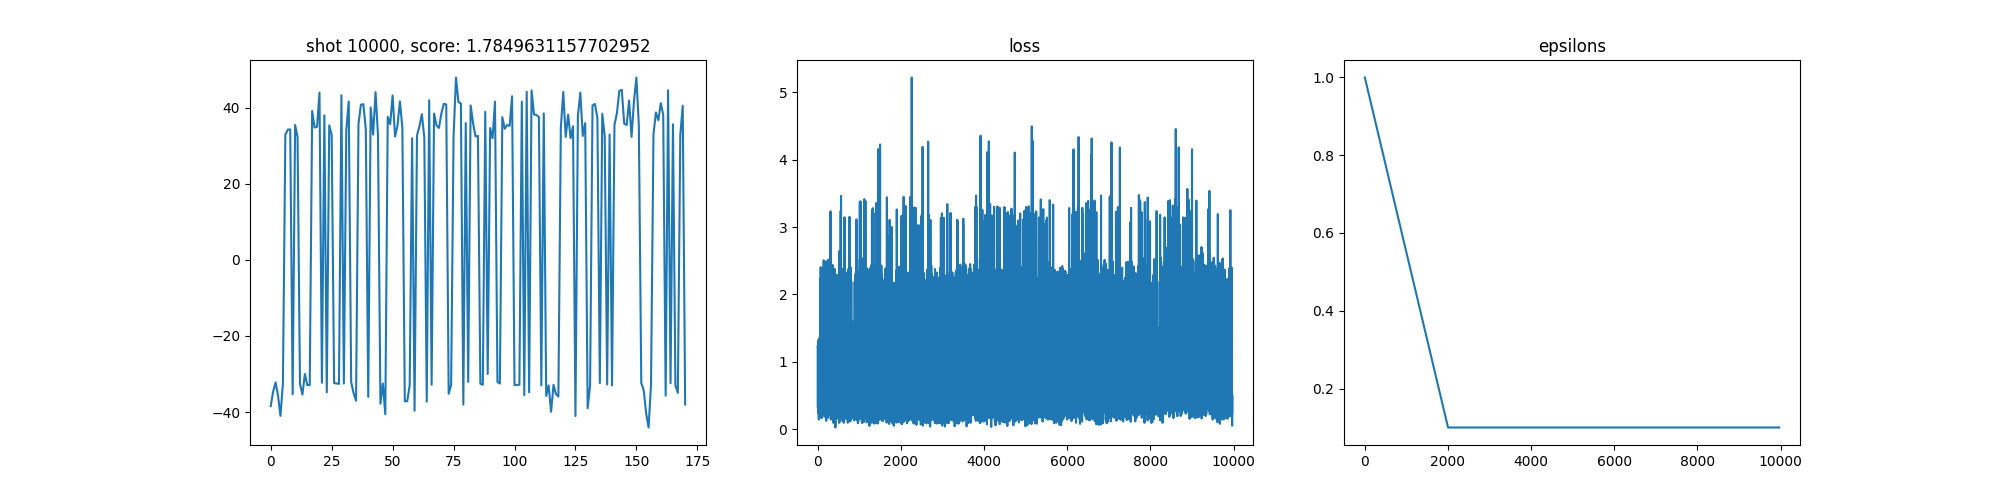
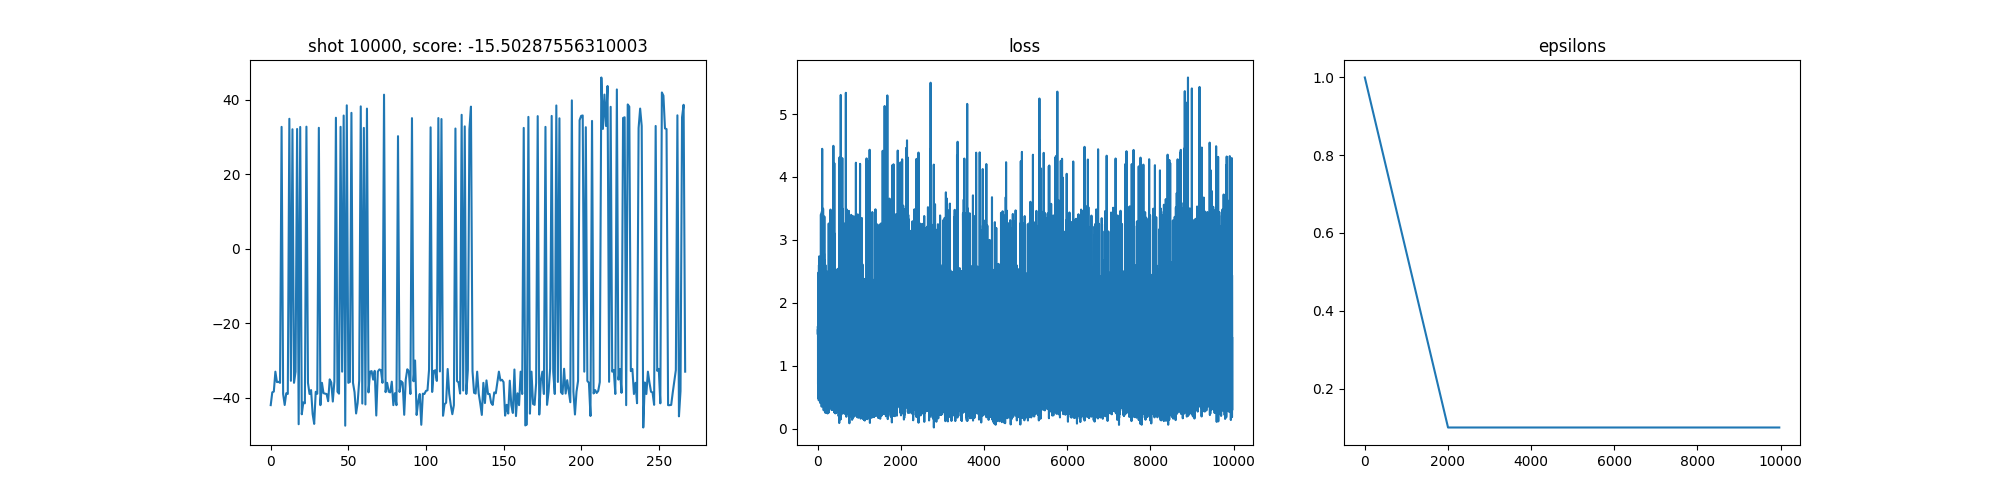
Refactor
Performance drop?

diff --git a/env.py b/env.py
@@ -1,10 +1,7 @@
 import torch
-import time
 import numpy as np
-from poke_env.player import Gen5EnvSinglePlayer, OpenAIGymEnv, Player
+from poke_env.player import Gen5EnvSinglePlayer, Player
 from poke_env.data import GenData
-
-import matplotlib.pyplot as plt
 
 import embeddings
 import rewards
@@ -12,56 +9,68 @@ import nets
 
 
 class RLAgent:
-    def __init__(self, device, env: OpenAIGymEnv):
-        self.device = device
-        self.env = env
+    """
+    Prototype Class for RLAgents
+    """
+    def __init__(self):
+        self.device = None
+        self.memory = None
 
         self.testing = False
     
-    def select_action(self, state):
+    def train(self):
+        pass
+    
+    def test(self):
         pass
 
-class AgentPlayer(Player):
-    def __init__(self, agent: RLAgent, **kwargs):
-        self.agent = agent
-        self.agent.testing = True
-
-        super(AgentPlayer, self).__init__(**kwargs)
+    def select_action(self, state) -> np.ndarray:
+        pass
     
-    def choose_move(self, battle):
-        embed = self.agent.env.embed_battle(battle)
-        action = self.agent.select_action(embed)
-        return self.agent.env.action_to_move(action, battle)
+    def replay_train(self) -> tuple[float, float]:
+        pass
 
-class DQNAgent(RLAgent):
-    def __init__(self, device, shape: list[int], env: OpenAIGymEnv, memory_size: int, batch_size: int, target_update: int, epsilon_decay: float,
-                 seed: int, max_epsilon: float = 1.0, min_epsilon: float = 0.1, gamma: float = 0.99):
-        super(DQNAgent, self).__init__(device, env)
+    def store(self, transition):
+        pass
+    
+    def save(self):
+        pass
+
+class EpsilonGreedyDQN(RLAgent):
+    def __init__(self, device, shape: list[int], obs_dim: int, action_dim: int, memory_size: int, batch_size: int, target_update: int, epsilon_decay: float,
+                 max_epsilon: float = 1.0, min_epsilon: float = 0.1, gamma: float = 0.99):
+        self.device = device
 
         self.batch_size = batch_size
         self.epsilon = max_epsilon
         self.epsilon_decay = epsilon_decay
-        self.seed = seed
         self.max_epsilon = max_epsilon
         self.min_epsilon = min_epsilon
         self.target_update = target_update
         self.gamma = gamma
 
-        obs_dim = env.observation_space.shape[0]
-        action_dim = env.action_space.n
+        self.action_dim = action_dim
 
         self.memory = nets.SimpleReplayBuffer(device, obs_dim, memory_size, batch_size)
         self.dqn = nets.Network(obs_dim, action_dim, shape).to(device)
         self.dqn_target = nets.Network(obs_dim, action_dim, shape).to(device)
         self.dqn_target.eval()
 
-        self.transition = list()
         self.optimizer = torch.optim.SGD(self.dqn.parameters())
+        self.testing = False
+        self.update_cnt = 0
+    
+    def train(self):
+        self.testing = False
+        self.update_cnt = 0
+    
+    def test(self):
+        self.testing = True
     
     def select_action(self, state):
         if not self.testing:
             if self.epsilon > np.random.random():
-                selected_action = self.env.action_space.sample()
+                return None #Interpreted as random action
             else:
                 selected_action = self.dqn(torch.tensor(state, dtype=torch.float, device=self.device)).argmax()
                 selected_action = selected_action.detach().cpu().numpy()
@@ -73,86 +82,21 @@ class DQNAgent(RLAgent):
 
         return selected_action
 
-    def step(self, action):
-        next_state, reward, terminated, truncated, _ = self.env.step(action)
-        done = terminated or truncated
+    def store(self, transition: list[np.ndarray]):
+        self.memory.store(*[torch.tensor(val, dtype=torch.float) for val in transition])
 
-        if not self.testing:
-            self.transition += [reward, next_state, done]
-            self.memory.store(*[torch.tensor(val ,dtype=torch.float) for val in self.transition])
-        
-        return next_state, reward, done
-
-    def train(self, num_shots: int):
-        self.testing = False
-
-        state, _ = self.env.reset(seed=self.seed)
-        update_cnt = 0
-        epsilons = []
-        losses = []
-        scores = []
-        score = 0
-        for shot in range(1, num_shots+1):
-            if shot % 500 == 0:
-                print(f"shot: {shot}")
-
-            action = self.select_action(state)
-            next_state, reward, done = self.step(action)
-
-            state = next_state
-            score += reward
-
-            if done:
-                state, _ = self.env.reset(seed=self.seed)
-                scores.append(score)
-                score = 0
-            if len(self.memory) >= self.batch_size:
-                samples = self.memory.sample_batch()
-                loss = self._compute_dqn_loss(samples)
-
-                self.optimizer.zero_grad()
-                loss.backward()
-                self.optimizer.step()
-
-                losses.append(loss.item())
-                update_cnt += 1
-
-                self.epsilon = max(self.min_epsilon, self.epsilon - (self.max_epsilon - self.min_epsilon) * self.epsilon_decay)
-                epsilons.append(self.epsilon)
-
-                if update_cnt % self.target_update == 0:
-                    self.dqn_target.load_state_dict(self.dqn.state_dict())
-
-        self._plot(shot, scores, losses, epsilons)
-
-        self.env.close()
-    
-    def test(self, eval_env: OpenAIGymEnv, num_episodes: int):
-        self.testing = True
-        scores = []
-
-        for i in range(1, num_episodes+1):
-            if i % 50 == 0:
-                print(f"Episode {i}")
-            score = 0
-            state, _ = eval_env.reset(seed=self.seed)
-            done = False
-            while not done:
-                action = self.select_action(state)
-                next_state, reward, terminated, truncated, _ = eval_env.step(action)
-                done = terminated or truncated
-
-                state = next_state
-                score += reward
-            time.sleep(0.01)
-            if i == num_episodes:
-                eval_env.close()
-            scores.append(score)
-
-        plt.figure()
-        plt.title('Score over time:')
-        plt.plot(scores)
-        plt.savefig('test_results.png')
+    def replay_train(self):
+        if len(self.memory) >= self.batch_size:
+            samples = self.memory.sample_batch()
+            loss = self._compute_dqn_loss(samples)
+            self.optimizer.zero_grad()
+            loss.backward()
+            self.optimizer.step()
+            self.update_cnt += 1
+            self.epsilon = max(self.min_epsilon, self.epsilon - (self.max_epsilon - self.min_epsilon) * self.epsilon_decay)
+            if self.update_cnt % self.target_update == 0:
+                self.dqn_target.load_state_dict(self.dqn.state_dict())
+            return loss.item(), self.epsilon
 
     def _compute_dqn_loss(self, samples):
         #state, action, reward, next_state, done
@@ -169,27 +113,14 @@ class DQNAgent(RLAgent):
 
         return loss
 
-    def _plot(self, shot, scores, losses, epsilons):
-        plt.figure(figsize=(20,5))
-        plt.subplot(131)
-        plt.title(f'shot {shot}, score: {np.mean(scores[-10:])}')
-        plt.plot(scores)
-        plt.subplot(132)
-        plt.title('loss')
-        plt.plot(losses)
-        plt.subplot(133)
-        plt.title('epsilons')
-        plt.plot(epsilons)
-        plt.savefig('train_results.png')
-
-class RLEnvPlayer(Gen5EnvSinglePlayer):
+class RLEnv(Gen5EnvSinglePlayer):
     def __init__(self, embed_type: str, reward_type: str, reward_params: tuple, **kwargs):
         self.gendata = GenData(5)
         self.embedding_fn, self.embedding_descriptor = embeddings.select_embedding(embed_type)
         self.reward_fn = rewards.select_reward(reward_type)
         self.reward_params = reward_params
 
-        super(RLEnvPlayer, self).__init__(**kwargs)
+        super(RLEnv, self).__init__(**kwargs)
         
     def calc_reward(self, last_battle, current_battle) -> float:
         #Last battle is last battle state
@@ -208,6 +139,19 @@ class RLEnvPlayer(Gen5EnvSinglePlayer):
     def describe_embedding(self):
         return self.embedding_descriptor()
 
-class SelfPlayEnvPlayer(RLEnvPlayer):
+class SelfPlayRLEnv(RLEnv):
     def potato(self):
         pass
+
+class AgentPlayer(Player):
+    def __init__(self, agent: RLAgent, env: RLEnv, **kwargs):
+        self.agent = agent
+        self.agent.test()
+
+        self.env = env
+        super(AgentPlayer, self).__init__(**kwargs)
+    
+    def choose_move(self, battle):
+        embed = self.env.embed_battle(battle)
+        action = self.agent.select_action(embed)
+        return self.env.action_to_move(action, battle)

diff --git a/main.py b/main.py
@@ -20,8 +20,8 @@ def plot(shot, scores, losses, epsilons):
     plt.plot(epsilons)
     plt.savefig('train_results.png')
 
-def train(agent, env: env.RLEnvPlayer, num_shots: int, seed: int):
-    agent.testing = False
+def train(agent: env.RLAgent, env: env.RLEnv, num_shots: int, seed: int):
+    agent.train()
 
     state, _ = env.reset(seed=seed)
     epsilons = []
@@ -34,6 +34,8 @@ def train(agent, env: env.RLEnvPlayer, num_shots: int, seed: int):
             print(f"Shot: {shot}")
         
         action = agent.select_action(state)
+        if action is None:
+            action = env.action_space.sample()
         next_state, reward, terminated, truncated, _ = env.step(action)
         done = terminated or truncated
 
@@ -42,17 +44,22 @@ def train(agent, env: env.RLEnvPlayer, num_shots: int, seed: int):
         state = next_state
         score += reward
         if done:
-            state, _ = env.reset(seed)
+            state, _ = env.reset(seed=seed)
             scores.append(score)
             score = 0
         
-        agent.replay_train()
+        vals = agent.replay_train()
+        if vals is not None:
+            losses.append(vals[0])
+            epsilons.append(vals[1])
     
     plot(shot, scores, losses, epsilons)
 
     env.close()
 
 if __name__ == "__main__":
+    device = torch.device('cuda' if torch.cuda.is_available() else 'cpu')
+
     opponent = RandomPlayer(
         battle_format = "gen5randombattle",
         server_configuration=LocalhostServerConfiguration
@@ -66,23 +73,24 @@ if __name__ == "__main__":
         server_configuration=LocalhostServerConfiguration
     )
     
-    testing_env = env.RLEnvPlayer(
+    testing_env = env.RLEnv(
         embed_type=embeddings.EMBED_DICT[0],
         reward_type=rewards.REW_DICT[0],
         reward_params=(2.0, 1.0, 6, 0.0, 30.0),
         battle_format="gen5randombattle",
         server_configuration=LocalhostServerConfiguration,
         start_challenging=True,
-        opponent=opponent
+        opponent=opponent2
     )
+    obs_dim = testing_env.observation_space.shape[0]
+    action_dim = testing_env.action_space.n
+    dqn = env.EpsilonGreedyDQN(device, [128, 128], obs_dim, action_dim, 1000, 32, 100, 1 / 2000)
 
-    device = torch.device('cuda' if torch.cuda.is_available() else 'cpu')
-    dqn = env.DQNAgent(device, [128, 128], testing_env, 1000, 32, 100, 1 / 2000, 42)
-
-    dqn.train(10000)
+    train(dqn, testing_env, num_shots=10000, seed=42)
 
     dqn_player = env.AgentPlayer(
         agent=dqn,
+        env=testing_env,
         battle_format='gen5randombattle',
         server_configuration=LocalhostServerConfiguration           
     )
